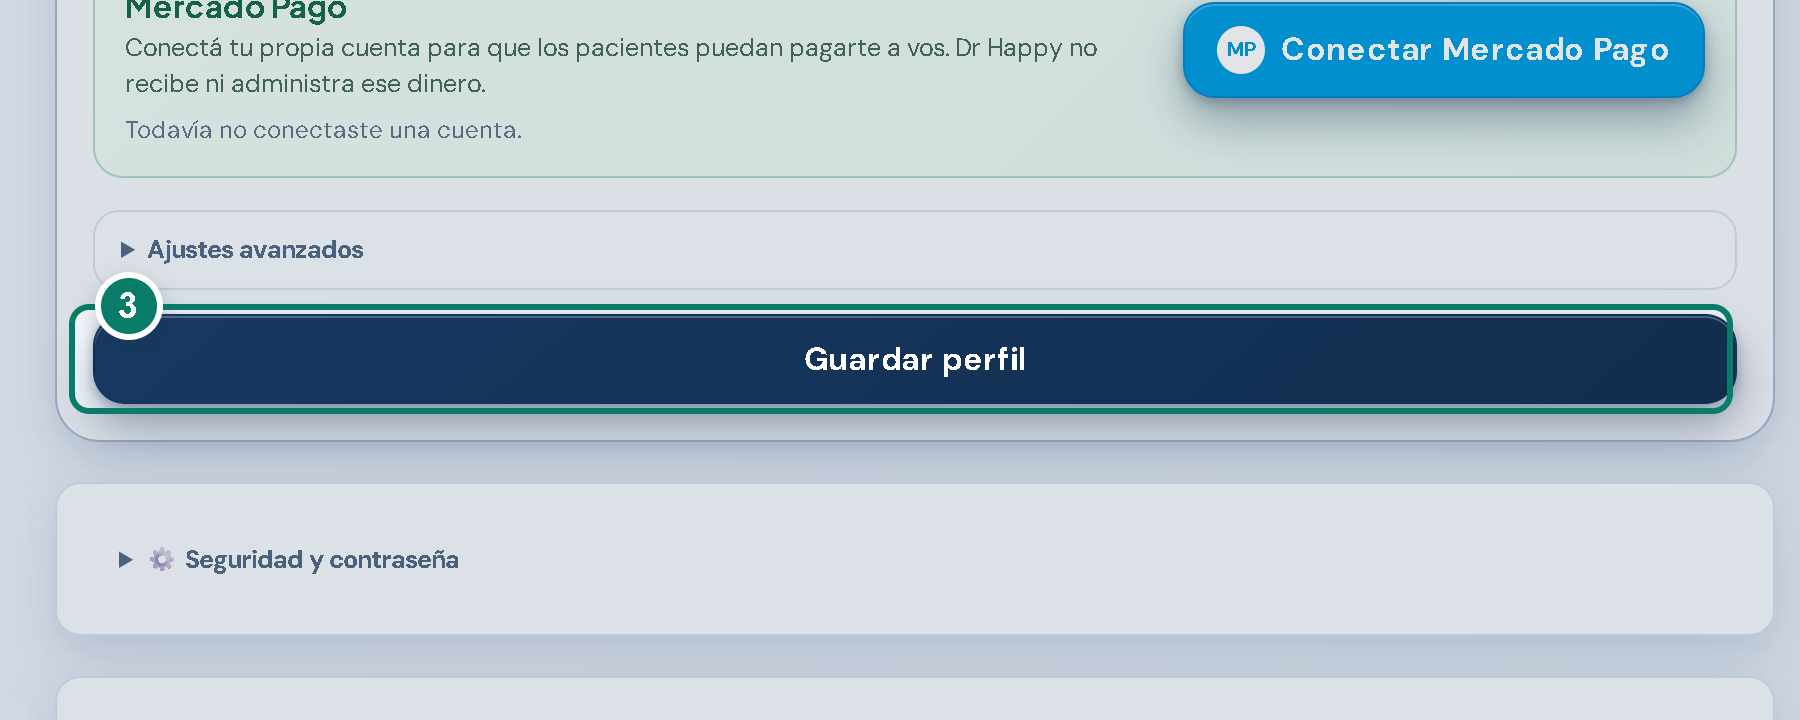
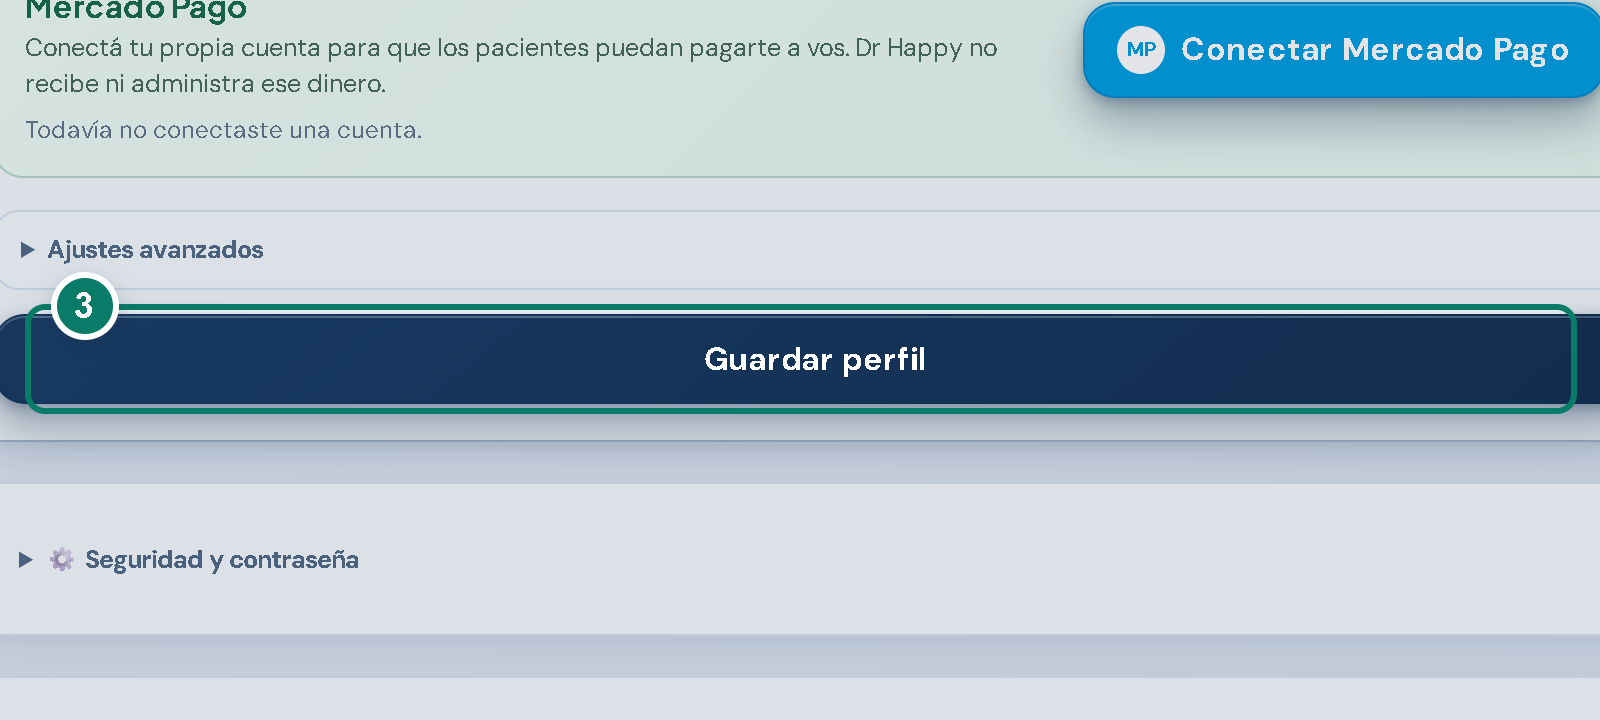
Preserve tutorial screenshot resolution through hosting CDN
Keep 2x crops within the CDN's 1600px image limit, version image URLs to refresh caches, and cover image bounds plus backward/completion navigation.

diff --git a/dr happy/src/homeToolTutorials.ts b/dr happy/src/homeToolTutorials.ts
@@ -158,5 +158,5 @@ export function getHomeToolTutorial(key: string, label: string): HomeToolTutoria
 }
 
 export function homeToolTutorialImage(image: string, step = 0): string {
-  return `${import.meta.env.BASE_URL}tool-tutorials/${image}-${step + 1}.png`
+  return `${import.meta.env.BASE_URL}tool-tutorials/${image}-${step + 1}.png?v=2`
 }

diff --git a/dr happy/README.md b/dr happy/README.md
@@ -14,7 +14,7 @@ Web app base en React + TypeScript para:
 
 Solo en la vista de PC (desde 900 px, el mismo corte que el menú lateral), el inicio profesional muestra un carrusel manual con un único flyer a la vez, sin avance automático. Cada flyer presenta el beneficio de la herramienta y una invitación a conocerla en tres pasos. Anterior/Siguiente recorren las herramientas habilitadas; tocar el flyer abre un diálogo con tres pasos seleccionables, cada uno con un recorte ampliado de la pantalla real, un recuadro numerado y una explicación de hasta cuatro renglones, sin navegar a la herramienta. Incluye Sofía y adapta atención/vademécum a la especialidad. El diálogo admite Escape, mantiene el foco y vuelve al flyer al cerrarse. Soporta modo nocturno. En móvil no se monta el carrusel ni se cargan sus imágenes: la botonera de inicio conserva su presentación y comportamiento. Al reducir la ventana a vista móvil se cierra el tutorial y se libera el bloqueo de desplazamiento.
 
-Las capturas de `public/tool-tutorials/` se generan desde pantallas actuales con datos ficticios usando `node tests/home-tutorial-captures.mjs`, con el mismo Vite/CDP aislado de las pruebas. Son PNG sin pérdida a escala 2x, de al menos 1200 × 720 píxeles, con el foco de cada paso resaltado: no se amplían JPEG anteriores. El script intercepta la API profesional y sirve localmente la interfaz real de videoconsulta con pacientes ficticios; no accede a cuentas ni pacientes reales. También valida que la botonera móvil real conserve sus accesos y no cargue tutoriales. Regenerar las capturas cuando cambien esas pantallas. Puede limitarse a ciertas herramientas con `TEST_CAPTURE_ONLY` (claves separadas por comas; Sofía y video se regeneran siempre).
+Las capturas de `public/tool-tutorials/` se generan desde pantallas actuales con datos ficticios usando `node tests/home-tutorial-captures.mjs`, con el mismo Vite/CDP aislado de las pruebas. Son PNG sin pérdida a escala 2x, de al menos 1200 × 720 píxeles, con el foco de cada paso resaltado: no se amplían JPEG anteriores. El ancho máximo de 1600 px evita que el CDN del alojamiento reduzca automáticamente su resolución; las URLs llevan versión para renovar la caché de imágenes anteriores. El script intercepta la API profesional y sirve localmente la interfaz real de videoconsulta con pacientes ficticios; no accede a cuentas ni pacientes reales. También valida que la botonera móvil real conserve sus accesos y no cargue tutoriales. Regenerar las capturas cuando cambien esas pantallas. Puede limitarse a ciertas herramientas con `TEST_CAPTURE_ONLY` (claves separadas por comas; Sofía y video se regeneran siempre).
 
 El contacto con desarrolladores sigue visible al pie de la página pública, fuera del formulario de acceso y de «Más opciones», y abre el formulario de soporte existente sin exigir inicio de sesión.
 
